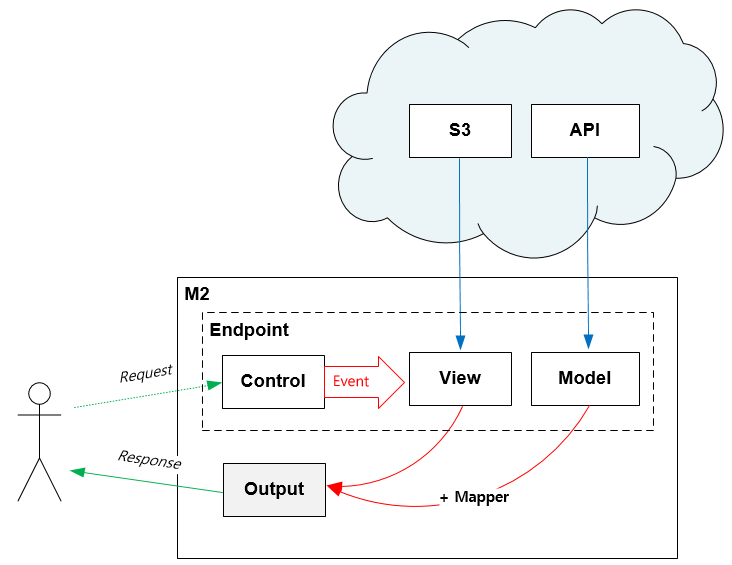
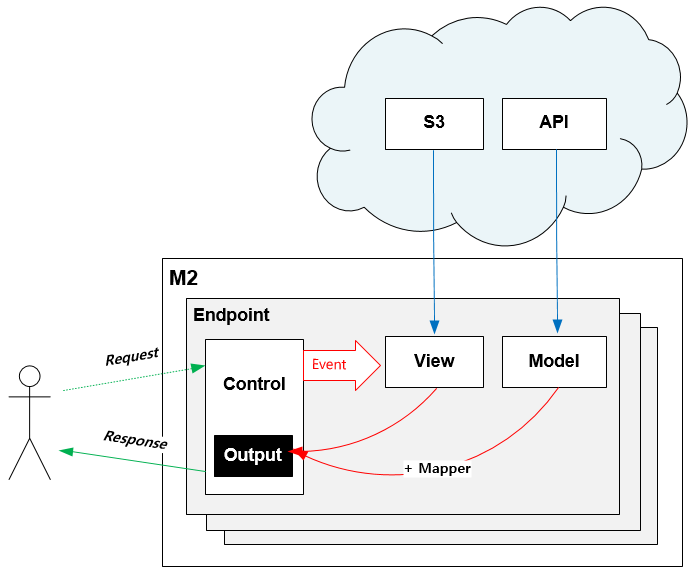
1
1

diff --git a/guide/endpoint.rst b/guide/endpoint.rst
@@ -172,4 +172,26 @@ Body와 QueryString을 혼합해 사용 가능하다. ::
 
 
 
+확장모듈
+------------------------------------
 
+확장모듈은 기존 시스템과 연동을 위한 목적으로 사용된다.
+
+-  이미 사용하는 Web API 규격이 있는 경우
+-  인증등 외부 시스템과 연계하는 경우
+-  생성된 콘텐츠 S3 업로드
+
+.. figure:: img/m2_15.png
+    :align: center
+
+
+::
+
+   # vhosts.xml - <Vhosts><Vhost><M2><Endpoints><Endpoint>
+
+   <Control>
+       <Module Name="aws_s3-backup">bucket:mybucket; object:/my/desired/key.txt;</Module>
+   </Control>
+   
+
+-  ``<Module>`` 약속된 연동모듈을 ``Name`` 속성으로 로딩한다. 모듈의 파라미터는 값으로 전달한다.
